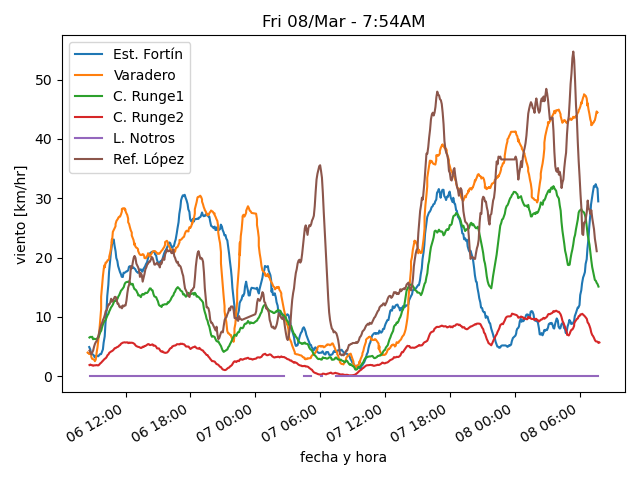
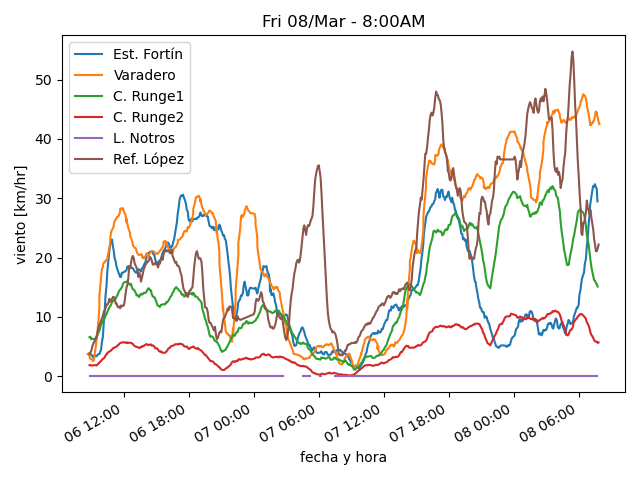
actualiza datos

diff --git a/estaciones/estacion2.html b/estaciones/estacion2.html
@@ -18,12 +18,12 @@
     </tr>
     <tr>
      <td class="stats_data">
-      7:39AM
+      7:54AM
      </td>
     </tr>
     <tr>
      <td class="stats_data">
-      11.2
+      10.6
      </td>
     </tr>
     <tr>
@@ -33,17 +33,17 @@
     </tr>
     <tr>
      <td class="stats_data">
-      88.8
+      92.1
      </td>
     </tr>
     <tr>
      <td class="stats_data">
-      1001.52
+      1001.93
      </td>
     </tr>
     <tr>
      <td class="stats_data">
-      34.0/41.5 NW
+      32.6/40.5 NW
      </td>
     </tr>
     <tr>
@@ -58,7 +58,7 @@
     </tr>
     <tr>
      <td class="stats_data">
-      6.5
+      16.9
      </td>
     </tr>
    </tbody>

diff --git a/estaciones/estacion6.html b/estaciones/estacion6.html
@@ -18,17 +18,17 @@
     </tr>
     <tr>
      <td class="stats_data">
-      7:35AM
+      7:50AM
      </td>
     </tr>
     <tr>
      <td class="stats_data">
-      3.0
+      2.6
      </td>
     </tr>
     <tr>
      <td class="stats_data">
-      2.0
+      1.6
      </td>
     </tr>
     <tr>
@@ -38,17 +38,17 @@
     </tr>
     <tr>
      <td class="stats_data">
-      1003.18
+      1003.42
      </td>
     </tr>
     <tr>
      <td class="stats_data">
-      14.5/30.6 SSE
+      9.7/30.6 SSE
      </td>
     </tr>
     <tr>
      <td class="stats_data">
-      16.0 / 3.05
+      16.51 / 2.79
      </td>
     </tr>
     <tr>
